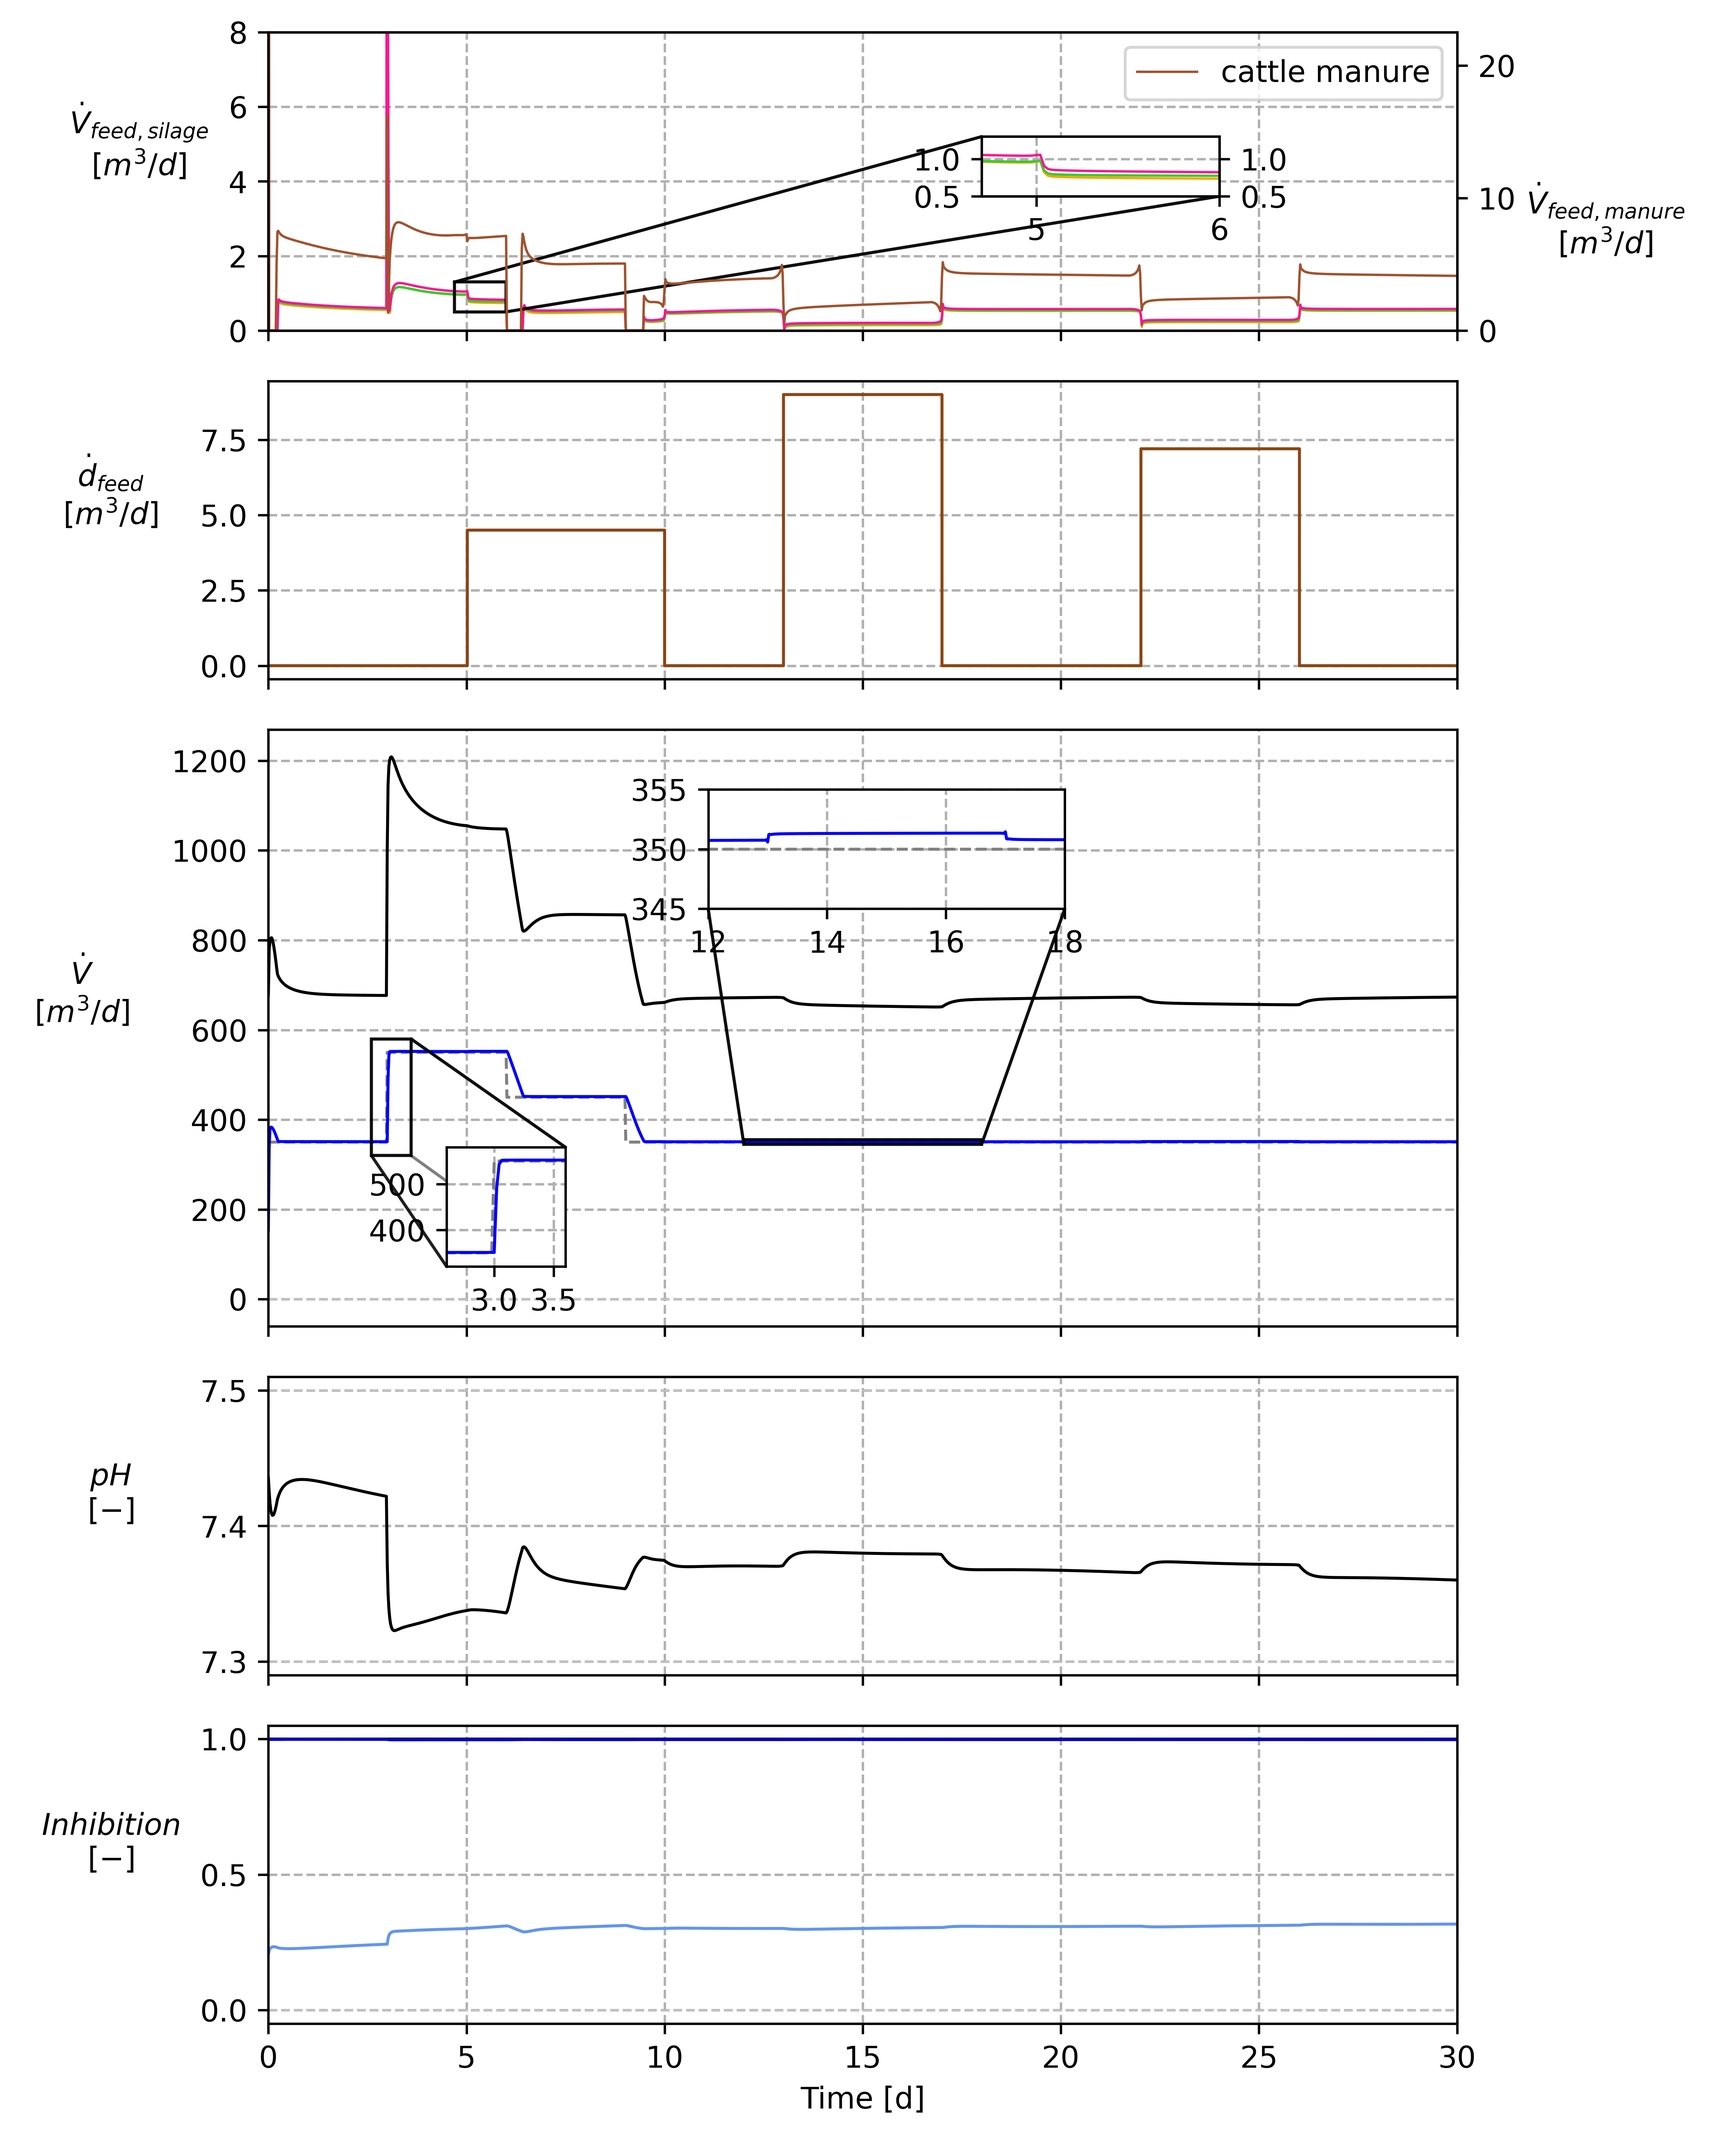
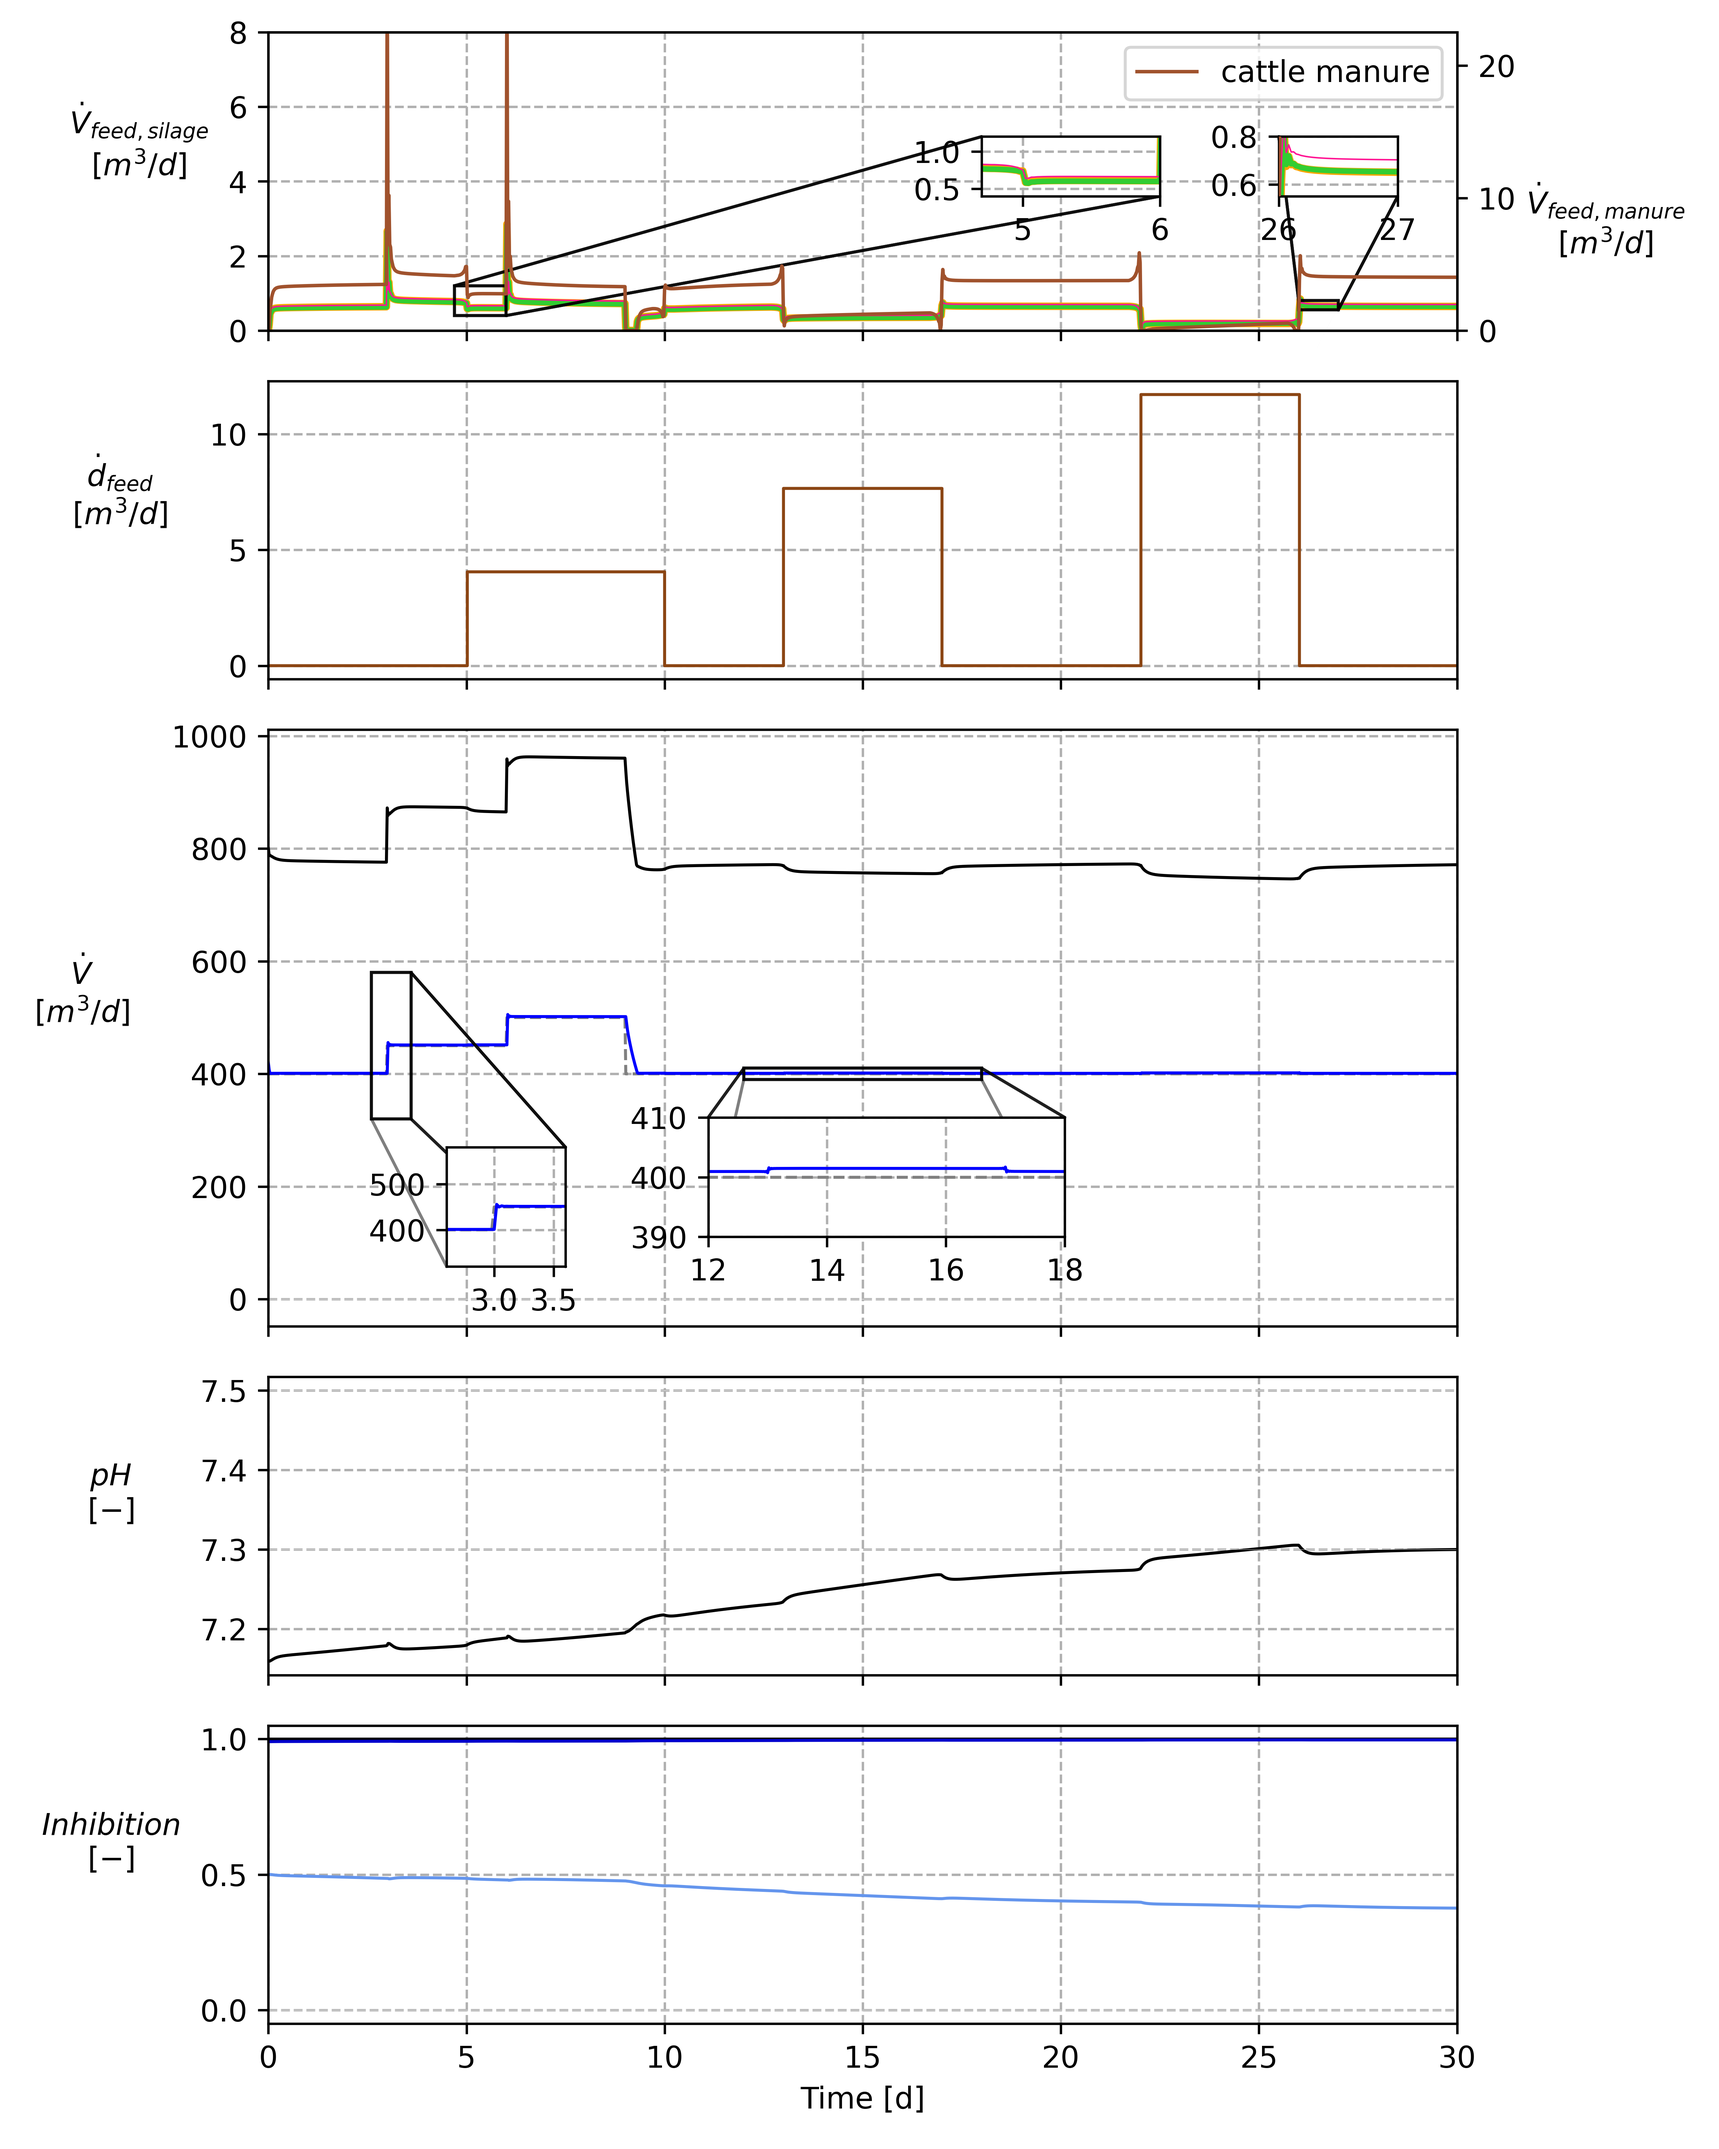
get Sc. 1a running with adapted steady-state

diff --git a/ad_meal_prep_control/plot_generation/plot_scenario_1b.py b/ad_meal_prep_control/plot_generation/plot_scenario_1b.py
@@ -7,8 +7,8 @@ from ad_meal_prep_control.postprocessing import (
 import sys
 from ad_meal_prep_control.plot_generation.Controller_output_plotting.Output_Scenario_1b import controller_plotting_1b
 
-# scenario_names = ["Scenario_1b_quadratic_nominal_feedback_mismatch_2std_3tsap"]
-scenario_names = ["Scenario_1b_quadratic_robust_feedback_mismatch_1.5std_3tsap"]
+scenario_names = ["Scenario_1b_quadratic_nominal_feedback_mismatch_2std_3tsap"]
+# scenario_names = ["Scenario_1b_quadratic_robust_feedback_mismatch_1.5std_3tsap"]
 plot_save_name = scenario_names
 
 try:
@@ -112,26 +112,26 @@ for scenario_name, plot_save_name in zip(scenario_names, plot_save_name):
         input_inset_axes=[
             {
                 "days": (4.7, 6),
-                "ylimit": (0.6, 1.5),
+                "ylimit": (0.4, 1.2),
                 "inset_axis_specs": (0.6, 0.45, 0.15, 0.2),
             },
             {
                 "days": (26, 27),
-                "ylimit": (0.55, 0.7),
+                "ylimit": (0.55, 0.8),
                 "inset_axis_specs": (0.85, 0.45, 0.1, 0.2),
             }],
         other_inset_axes=[
             {
                 "plot_idx": 2,
-                "days": (12, 18),
-                "ylimit": (345, 355),
-                "inset_axis_specs": (0.37, 0.7, 0.3, 0.2),
-            },
-            {
-                "plot_idx": 2,
                 "days": (2.6, 3.6),
                 "ylimit": (320, 580),
                 "inset_axis_specs": (0.15, 0.1, 0.1, 0.2),
+            },
+            {
+                "plot_idx": 2,
+                "days": (12, 18),
+                "ylimit": (390, 410),
+                "inset_axis_specs": (0.37, 0.15, 0.3, 0.2),
             },
         ],
     )

diff --git a/ad_meal_prep_control/simulation.py b/ad_meal_prep_control/simulation.py
@@ -590,9 +590,9 @@ class Simulation:
             u_norm_steady_state = np.array(
                 [
                     [
-                        1.0 / len(self._subs_controlled) / _tu
-                        if sub.state == "solid"
-                        else 3.0 / len(self._subs_controlled) / _tu
+                        5e-4 / len(self._subs_controlled) * _tu
+                        if sub.state == "solid"                      # for silages
+                        else 1e-5 / len(self._subs_controlled) * _tu  # for manure
                         for _tu, sub in zip(self.Tu, self._subs_controlled)
                     ]
                 ]

diff --git a/ad_meal_prep_control/scenarios/scenario_1b_nominal.py b/ad_meal_prep_control/scenarios/scenario_1b_nominal.py
@@ -18,7 +18,7 @@ cost_func = CostFunction(lterm=lterm, mterm=mterm)
 n_days_mpc = 30         # length of simulation [d]
 n_std_dev = 2           # used for plant and controller
 t_stp_ahead_pred = 3    # for controller plotting
-setpoints = np.array([350.0, 550.0, 450.0, 350.0])
+setpoints = np.array([400.0, 450.0, 500.0, 400.0])
 
 ch4_set_point_function = SetpointFunction(
     setpoints=setpoints,

diff --git a/ad_meal_prep_control/params_R3.py b/ad_meal_prep_control/params_R3.py
@@ -5,7 +5,7 @@ kpr = 0.2
 kli = 0.1
 kdec = 0.02
 fracChFast = (
-    0.4  # fraction of fast cabohydrates Rindergülle (rel. hoher Faseranteil am Eingang)
+    0.4  # fraction of fast cabohydrates (rel. hoher Faseranteil am Eingang)
 )
 mu_m_ac = 0.4  # 1/d
 K_S_ac = 0.14  # kg/m^3
